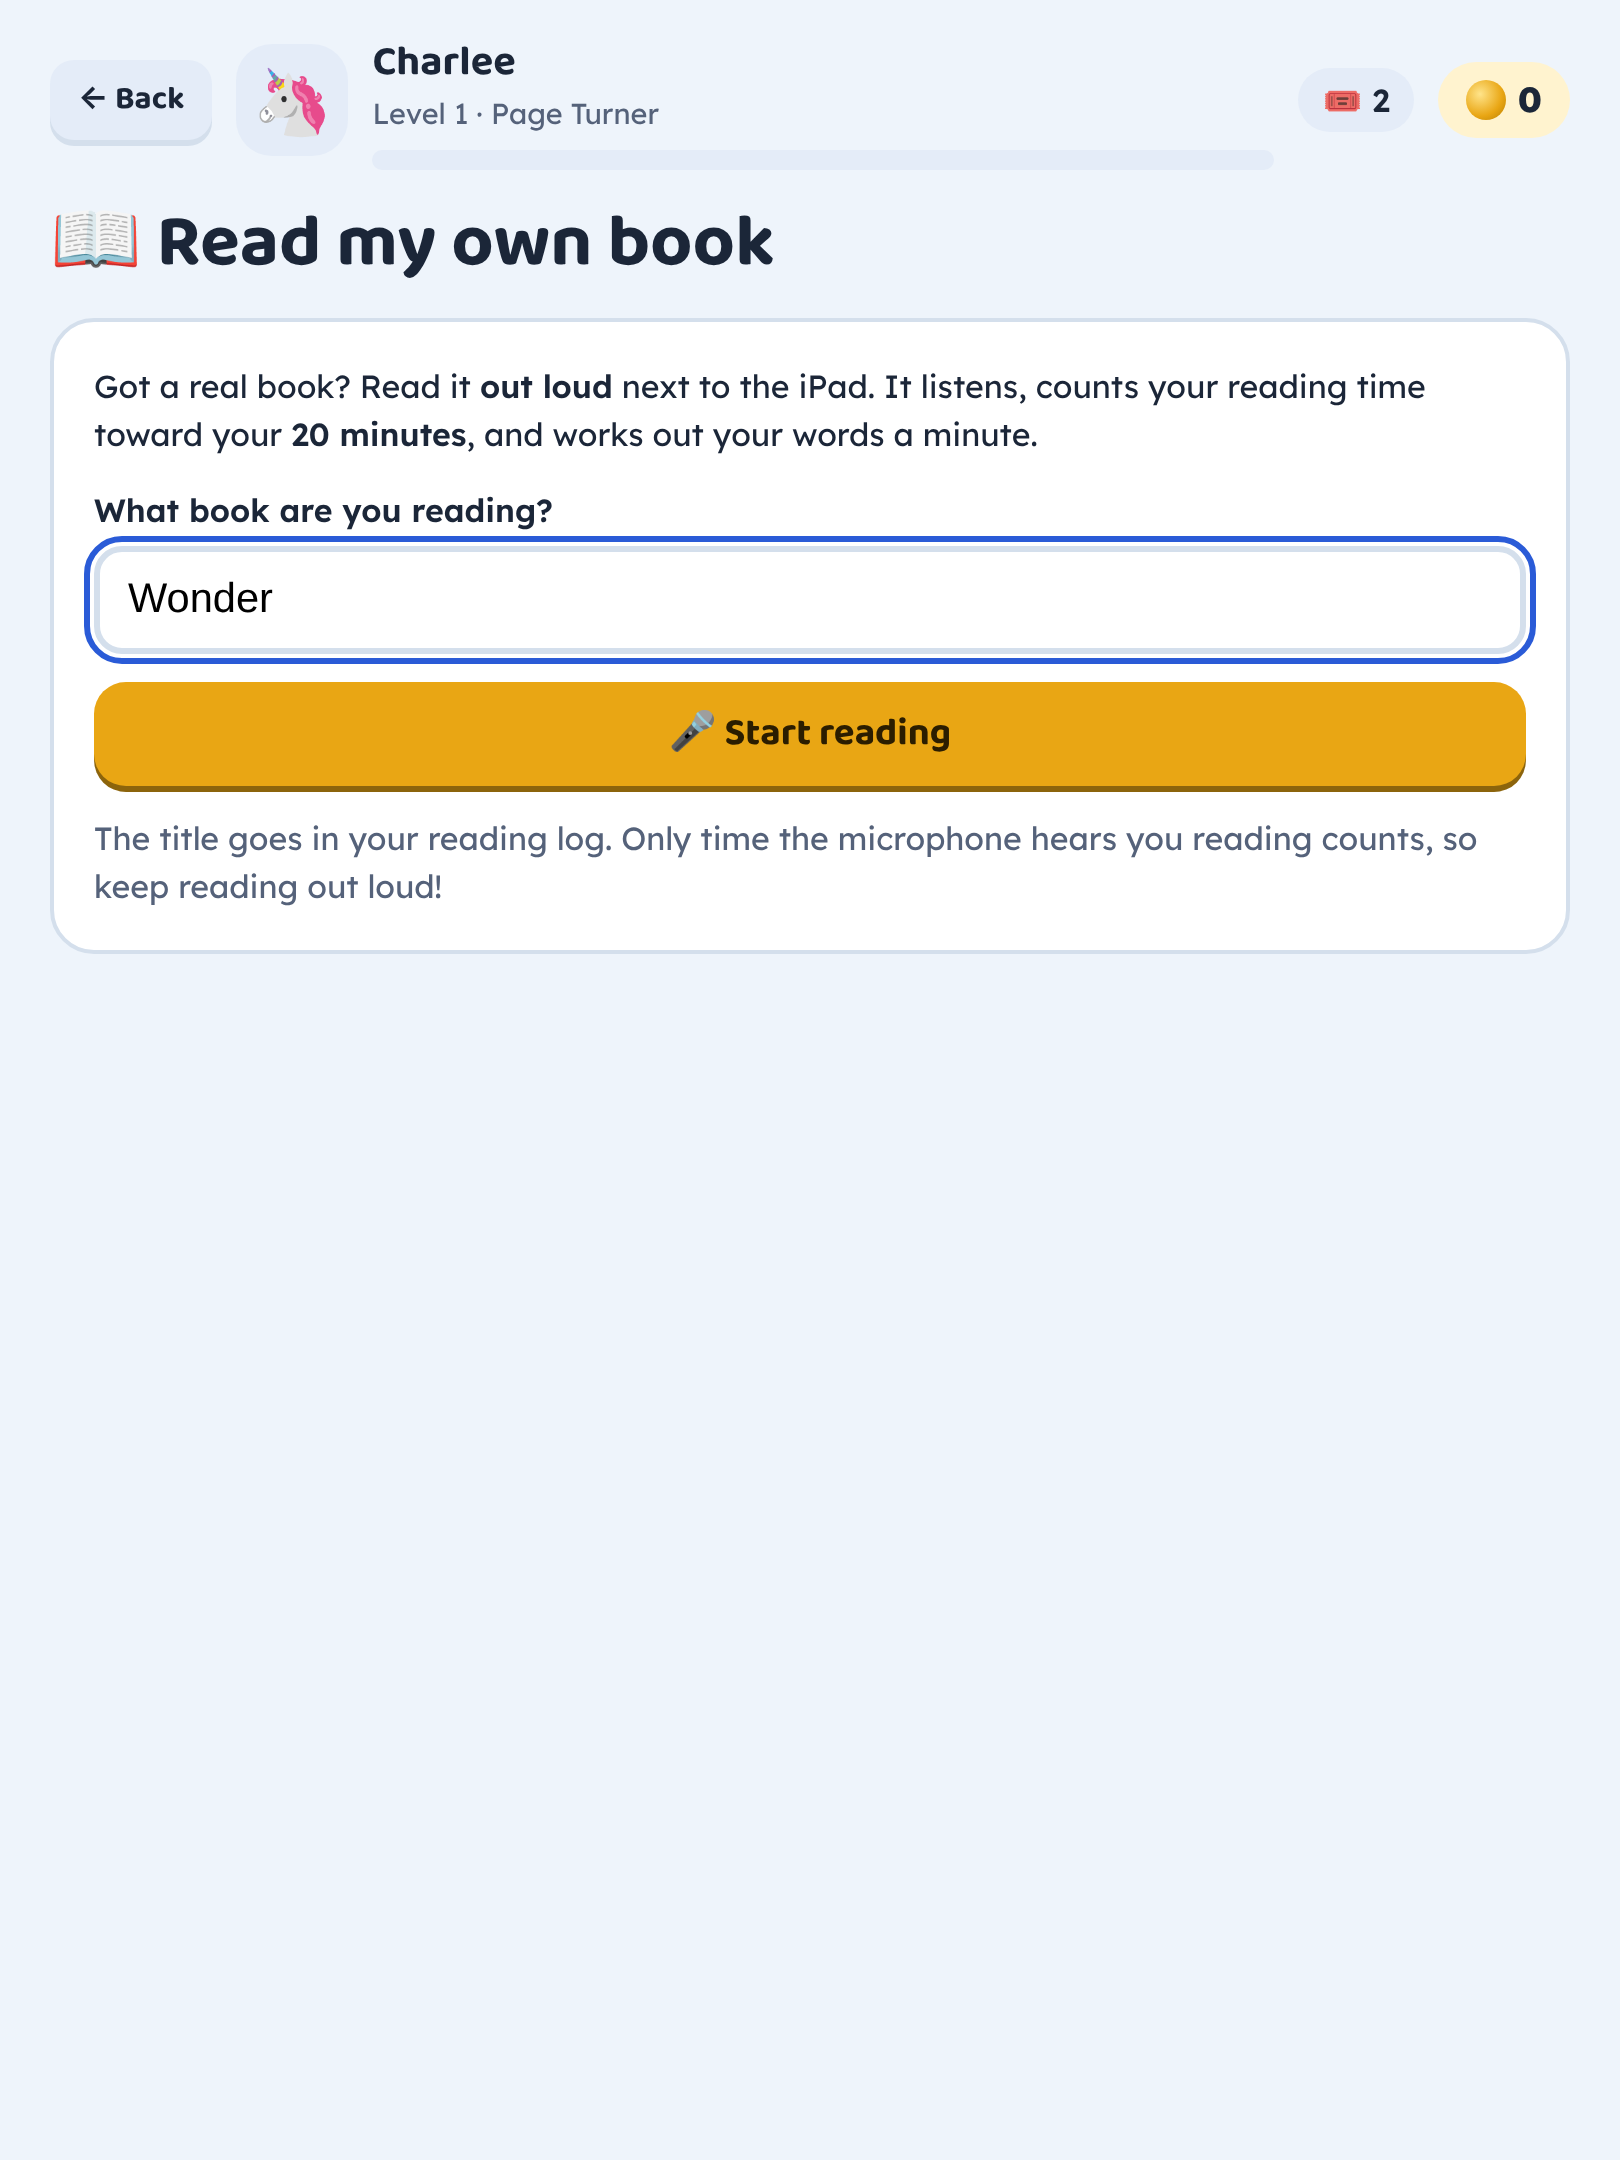
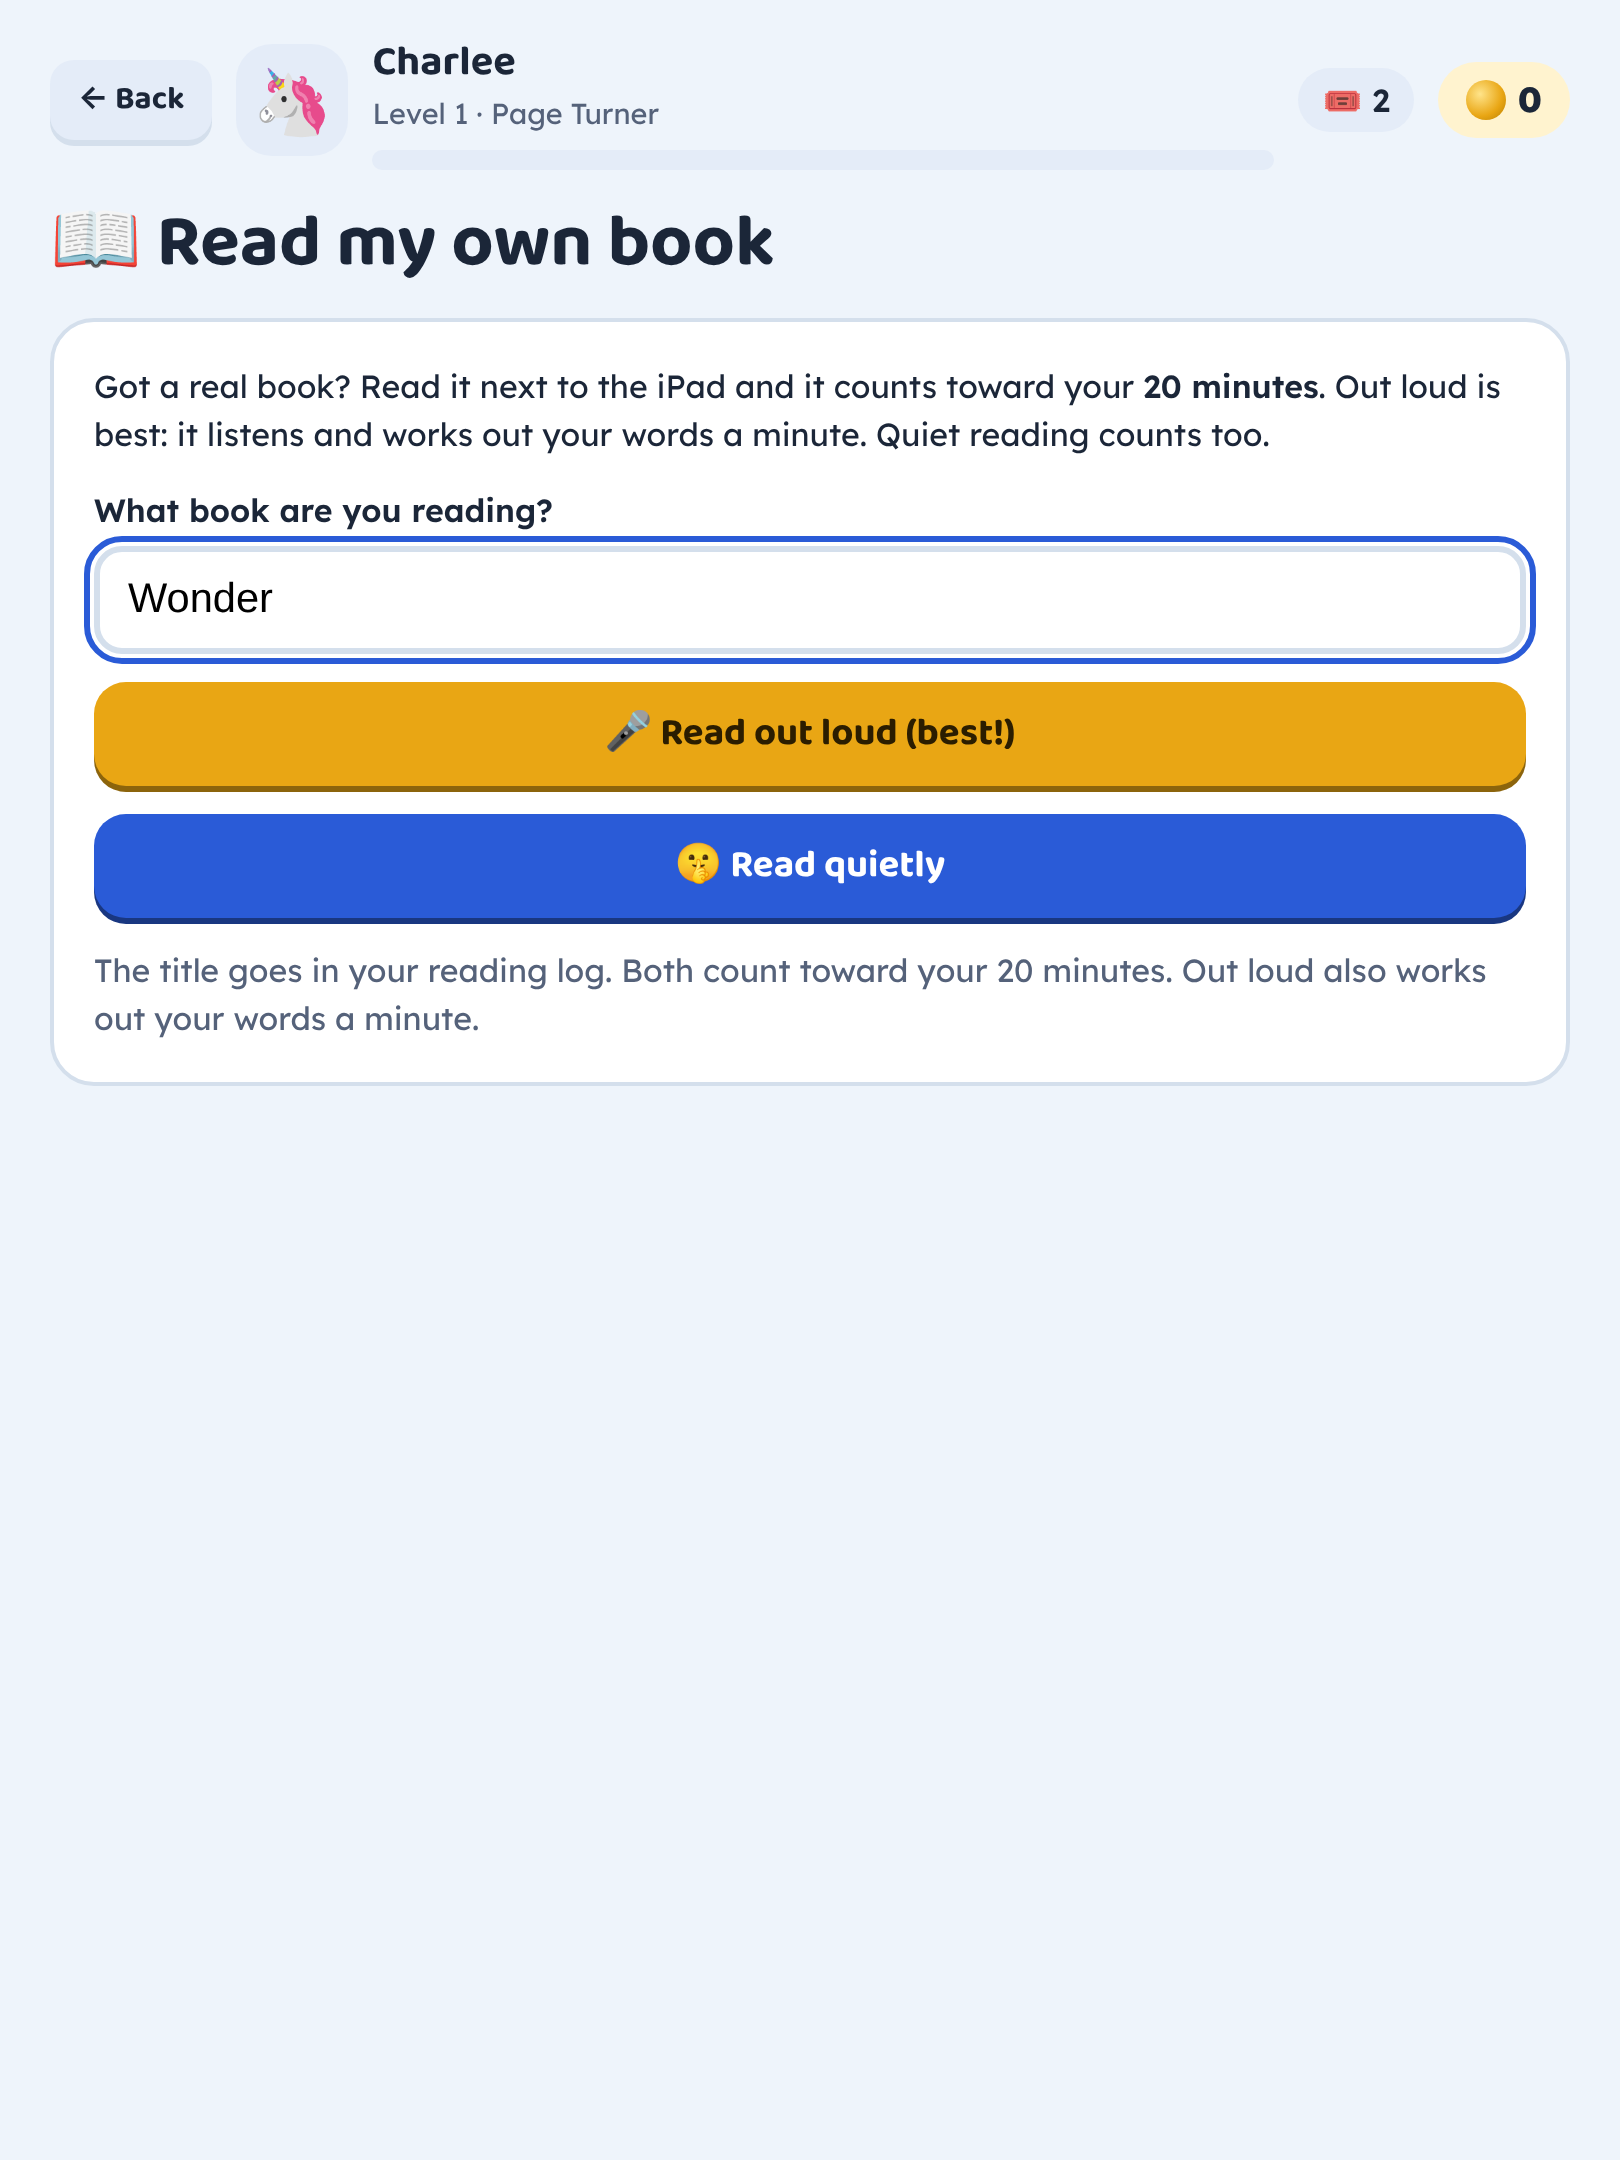
Read my own book: a quiet-reading option (clock with a Still reading? check every 5 minutes) that counts toward the daily 20; out loud stays first
Claude-Session: https://claude.ai/code/session_01XFu2tzZbArpVaJjUKnUaou

Changed region(s): [[0.0309, 0.3102, 0.9568, 0.4963], [0.0617, 0.1551, 0.9259, 0.2171], [0.3704, 0.3102, 0.4938, 0.3412]]

diff --git a/index.html b/index.html
@@ -1216,7 +1216,7 @@ function vHub(){
   ${speedGoal(p)}
 
   <div class="tiles">
-    ${isParent(p) ? '' : `<button class="tile" data-a="${A(()=>go({name:'book'}))}"><span class="ic">📖</span><span><b>Read my own book</b><span class="mut">A real book, out loud. Counts toward ${BREAK_ALOUD} min</span></span></button>`}
+    ${isParent(p) ? '' : `<button class="tile" data-a="${A(()=>go({name:'book'}))}"><span class="ic">📖</span><span><b>Read my own book</b><span class="mut">A real book, out loud or quietly. Counts toward ${BREAK_ALOUD} min</span></span></button>`}
     <button class="tile" data-a="${A(()=>go({name:'library', tab:'rec'}))}"><span class="ic">📚</span><span><b>Pick a story</b><span class="mut">Read, answer, earn coins</span></span></button>
     ${infoSet(p).length ? `<button class="tile" data-a="${A(()=>go({name:'infolab'}))}"><span class="ic">🔬</span><span><b>Info Lab</b><span class="mut">Real-world articles, test-style questions</span></span></button>` : ''}
     <button class="tile" data-a="${A(()=>go({name:'gym'}))}"><span class="ic">🏋</span><span><b>Fluency Gym</b><span class="mut">Read it 3 times, get faster</span></span></button>
@@ -1599,7 +1599,7 @@ setInterval(() => {
 document.addEventListener('visibilitychange', () => { if (document.hidden) rcFlush(); });
 addEventListener('pagehide', rcFlush);
 function rcLabel(){ const p = me(); if (!p) return ''; const m = Math.floor(readToday(p)), g = BREAK_ALOUD; return m >= g ? `📖 ${m} min today ✓` : `📖 ${m} of ${g} min`; }
-function stopAll(){ rcFlush(); if (typeof bookStop === 'function') bookStop(true); if (typeof closeScratch === 'function') closeScratch(); scanStop(); stopMic(); stopPace(); closePop(); gameStop(); stopRetell(); gymStopTimer(); breakStop(); }
+function stopAll(){ rcFlush(); if (typeof quietStop === 'function') quietStop(); if (typeof bookStop === 'function') bookStop(true); if (typeof closeScratch === 'function') closeScratch(); scanStop(); stopMic(); stopPace(); closePop(); gameStop(); stopRetell(); gymStopTimer(); breakStop(); }
 function setupMode(){
   const p = me();
   let mode = p.mode || 'pace'; if (mode === 'mic' && (!SR || micBlocked)) mode = 'pace';
@@ -7866,6 +7866,36 @@ function vSpell(){
 // the clock), so a book left open does not count. Words heard / minutes heard = words per minute (an estimate: the
 // microphone misses some words, so this usually reads a little LOW, never high).
 let BK = null;
+// ---- Reading a real book quietly (no microphone): Brad, Nov 2026, "I'd prefer out loud but I'll take any kind of reading".
+// The clock runs while the app is open; every 5 minutes it asks "Still reading?" and stops if nobody taps within a minute,
+// so a book left by the iPad does not keep counting. Counts toward the daily 20 (addMinutes), never toward out-loud minutes.
+let QB = null;
+const QB_ASK = 300, QB_WAIT = 60;
+function quietStart(title){
+  stopAll(); title = (title || '').trim() || 'My own book';
+  QB = {title, on:true, secs:0, pend:0, ask:false, askAt:0, saved:false};
+  try { navigator.wakeLock && navigator.wakeLock.request('screen').then(l => { if (QB) QB.lock = l; }).catch(() => {}); } catch (e) {}
+  QB.tick = setInterval(quietTick, 1000);
+  view = {name:'book', phase:'quiet'}; render();
+}
+function quietTick(){
+  if (!QB || !QB.on) return;
+  if (document.hidden) { quietFlush(); return; }
+  if (QB.ask){ if (Date.now() - QB.askAt > QB_WAIT * 1000){ QB.on = false; QB.ask = false; QB.paused = 'idle'; quietFlush(); render(); } else quietPaint(); return; }
+  QB.secs++; QB.pend++; QB.sinceAsk = (QB.sinceAsk || 0) + 1;
+  if (QB.pend >= 30) quietFlush();
+  if (QB.sinceAsk >= QB_ASK){ QB.ask = true; QB.askAt = Date.now(); QB.sinceAsk = 0; quietFlush(); render(); return; }
+  quietPaint();
+}
+function quietFlush(){ if (!QB || !QB.pend) return; const s2 = QB.pend; QB.pend = 0; addMinutes(s2 / 60, QB.title); }
+function quietStop(){ if (!QB) return; QB.on = false; clearInterval(QB.tick); try { QB.lock && QB.lock.release(); } catch (e) {} quietFlush(); }
+function quietSave(){ if (!QB || QB.saved || QB.secs < 30) return; QB.saved = true; const p = me();
+  p.books = [QB.title].concat((p.books || []).filter(x => x !== QB.title)).slice(0, 8);
+  logEvent('book', QB.title, {mins: Math.round(QB.secs / 6) / 10, w:0, quiet:true}); save(); }
+function quietPaint(){ if (!QB || view.name !== 'book') return; const p = me(), $ = id => document.getElementById(id); if (!$('qbTime')) return;
+  const t = readToday(p) + QB.pend / 60; $('qbTime').textContent = `${Math.floor(QB.secs / 60)}:${String(QB.secs % 60).padStart(2, '0')}`;
+  $('qbGoal').textContent = `${Math.min(BREAK_ALOUD, Math.floor(t))} of ${BREAK_ALOUD} min today`; $('qbBar').style.width = Math.min(100, t / BREAK_ALOUD * 100) + '%';
+  const w = $('qbWait'); if (w && QB.ask) w.textContent = Math.max(0, Math.ceil(QB_WAIT - (Date.now() - QB.askAt) / 1000)); }
 function bookStop(leaving){ if (!BK) return; BK.on = false; clearInterval(BK.tick); try { BK.rec && (BK.rec.onend = null, BK.rec.abort()); } catch (e) {} try { BK.lock && BK.lock.release(); } catch (e) {}
   bookFlush(); if (leaving) bookSave(); }
 function bookFlush(){ if (!BK || !BK.pend) return; const s2 = BK.pend; BK.pend = 0; addAloud(s2); addMinutes(s2 / 60, BK.title); }
@@ -7900,7 +7930,30 @@ function bookPaint(){ if (!BK || view.name !== 'book') return; const p = me(), $
   st.textContent = !BK.on ? '⏸ Paused' : BK.hearing ? '🎤 I can hear you reading. Keep going!' : (BK.active ? '🤫 I can\'t hear you. Read out loud a little louder.' : '🎤 Start reading out loud. The clock starts when I hear you.'); }
 function vBook(){
   const p = me(), v = view;
-  if (!SR || micBlocked) { app.innerHTML = `${topbar(()=>go({name:'hub'}))}<div class="card"><h1>📖 Read my own book</h1><p>This needs the microphone so it can hear you read. ${micBlocked ? 'The microphone is turned off for Page Quest. Ask a grown-up to allow it in Settings › Safari › Microphone, then try again.' : 'This browser cannot listen. Ask a grown-up for help.'}</p></div>`; return; }
+  if (v.phase === 'quiet' && QB){
+    const resume = () => { QB.on = true; QB.ask = false; QB.paused = ''; QB.sinceAsk = 0; clearInterval(QB.tick); QB.tick = setInterval(quietTick, 1000); render(); };
+    app.innerHTML = `${topbar(()=>{ quietStop(); quietSave(); go({name:'hub'}); })}
+    <div class="card bkcard"><p class="mut" style="margin:0">🤫 Reading quietly</p><h1 style="margin:0">${esc(QB.title)}</h1>
+      ${QB.ask ? `<div class="bkstate" style="font-size:1.3rem"><b>Still reading?</b> Tap the button so your time keeps counting. <span class="mut">(<span id="qbWait">${QB_WAIT}</span>s)</span></div>
+        <button class="btn sun big" data-a="${A(resume)}">✋ Yes, I'm still reading</button>`
+      : QB.paused ? `<div class="bkstate">${QB.paused === 'idle' ? '⏸ The clock stopped because nobody tapped "Still reading?".' : '⏸ Paused.'} Tap Keep reading when you start again.</div>` : `<div class="bkstate">⏱ The clock is running. Every 5 minutes I'll ask if you're still reading, so tap the screen when I do.</div>`}
+      <div class="bkstats"><div><span class="mut">Reading time</span><b id="qbTime">0:00</b></div></div>
+      <div><div class="row spread"><b>📖 Reading</b><span id="qbGoal" class="mut"></span></div><span class="mdbar" style="height:14px"><i id="qbBar" style="width:0%"></i></span></div>
+      <p class="mut" style="margin:0">Reading out loud is even better: it also works out your words a minute. <button class="linkbtn" data-a="${A(()=>{ const t = QB.title; quietStop(); quietSave(); go({name:'book', title:t}); })}">Switch to out loud</button></p>
+      <div class="row" style="justify-content:center;gap:10px">${QB.on && !QB.ask ? `<button class="btn ghost" data-a="${A(()=>{ QB.on = false; QB.paused = 'me'; quietFlush(); render(); })}">⏸ Pause</button>` : !QB.ask ? `<button class="btn sun" data-a="${A(resume)}">▶ Keep reading</button>` : ''}
+        <button class="btn" data-a="${A(()=>{ quietStop(); quietSave(); v.phase = 'qdone'; render(); })}">✓ I'm done</button></div>
+    </div>`;
+    quietPaint(); return;
+  }
+  if (v.phase === 'qdone' && QB){
+    app.innerHTML = `${topbar(()=>go({name:'hub'}))}<div class="card" style="display:flex;flex-direction:column;gap:12px;align-items:center;text-align:center">
+      <span class="big-emoji">📖</span><h1>Great reading!</h1><p><b>${esc(QB.title)}</b></p>
+      <div class="bkstats"><div><span class="mut">Read quietly</span><b>${Math.floor(QB.secs / 60)}:${String(QB.secs % 60).padStart(2, '0')}</b></div></div>
+      <p>Today: <b>${Math.floor(readToday(p))} of ${BREAK_ALOUD} min</b> of reading${readToday(p) >= BREAK_ALOUD ? ' ✓' : ''}</p>
+      <div class="row"><button class="btn sun" data-a="${A(()=>quietStart(QB.title))}">Keep reading</button><button class="btn ghost" data-a="${A(()=>go({name:'hub'}))}">Done</button></div></div>`;
+    return;
+  }
+  if (!SR || micBlocked) { app.innerHTML = `${topbar(()=>go({name:'hub'}))}<div class="card"><h1>📖 Read my own book</h1><p><button class="btn sun" data-a="${A(()=>quietStart(v.title || (p.books||[])[0] || ''))}">🤫 Read quietly instead</button></p><p>Reading out loud needs the microphone so it can hear you read. ${micBlocked ? 'The microphone is turned off for Page Quest. Ask a grown-up to allow it in Settings › Safari › Microphone, then try again.' : 'This browser cannot listen. Ask a grown-up for help.'}</p></div>`; return; }
   if (v.phase === 'reading' && BK){
     app.innerHTML = `${topbar(()=>{ bookStop(true); go({name:'hub'}); })}
     <div class="card bkcard"><p class="mut" style="margin:0">📖 Reading</p><h1 style="margin:0">${esc(BK.title)}</h1>
@@ -7927,11 +7980,12 @@ function vBook(){
   app.innerHTML = `${topbar(()=>go({name:'hub'}))}
   <h1>📖 Read my own book</h1>
   <div class="card" style="display:flex;flex-direction:column;gap:14px">
-    <p style="margin:0">Got a real book? Read it <b>out loud</b> next to the iPad. It listens, counts your reading time toward your <b>${BREAK_ALOUD} minutes</b>, and works out your words a minute.</p>
+    <p style="margin:0">Got a real book? Read it next to the iPad and it counts toward your <b>${BREAK_ALOUD} minutes</b>. Out loud is best: it listens and works out your words a minute. Quiet reading counts too.</p>
     <label><b>What book are you reading?</b><input id="bkTitle" class="bktitle" placeholder="Type the book's title" value="${esc(v.title || recent[0] || '')}" autocomplete="off"></label>
     ${recent.length ? `<div class="row" style="gap:6px"><span class="mut">Recent:</span>${recent.map(t => `<button class="btn small ghost" data-a="${A(()=>{ document.getElementById('bkTitle').value = t; })}">${esc(t)}</button>`).join('')}</div>` : ''}
-    <button class="btn sun big" data-a="${A(()=>{ const t = document.getElementById('bkTitle').value; bookStart(t); })}">🎤 Start reading</button>
-    <p class="mut" style="margin:0">The title goes in your reading log. Only time the microphone hears you reading counts, so keep reading out loud!</p>
+    <button class="btn sun big" data-a="${A(()=>{ const t = document.getElementById('bkTitle').value; bookStart(t); })}">🎤 Read out loud (best!)</button>
+    <button class="btn" data-a="${A(()=>quietStart(document.getElementById('bkTitle').value))}">🤫 Read quietly</button>
+    <p class="mut" style="margin:0">The title goes in your reading log. Both count toward your ${BREAK_ALOUD} minutes. Out loud also works out your words a minute.</p>
   </div>`;
 }
 // ---- the math home screen ----

diff --git a/sw.js b/sw.js
@@ -1,6 +1,6 @@
 // Page Quest service worker: always tries the network first so updates arrive,
 // and falls back to the last saved copy when the iPad is offline.
-const CACHE = 'page-quest-v69';
+const CACHE = 'page-quest-v70';
 const CORE = ['./', 'index.html', 'manifest.webmanifest', 'icons/apple-touch-icon.png', 'icons/icon-192.png', 'icons/icon-512.png'];
 // Break Zone games: cached on install so they also work offline
 const GAMES = ['bowling', 'golf', 'hoops', 'penalty', 'baseball', 'joust', 'hockey', 'fishing', 'stack', 'space', 'rings', 'rollball', 'balloons', 'draw', 'ttt', 'four', 'checkers', 'wordguess'].map(g => 'games/' + g + '.js?v=3').concat(['lib/jsQR.js?v=1', 'math/g3.js?v=6', 'math/g3geo.js?v=6', 'math/g3x.js?v=6', 'math/g3y.js?v=6', 'math/g5.js?v=6', 'math/g5x.js?v=6', 'math/g5y.js?v=6', 'cheer.js?v=3']);
